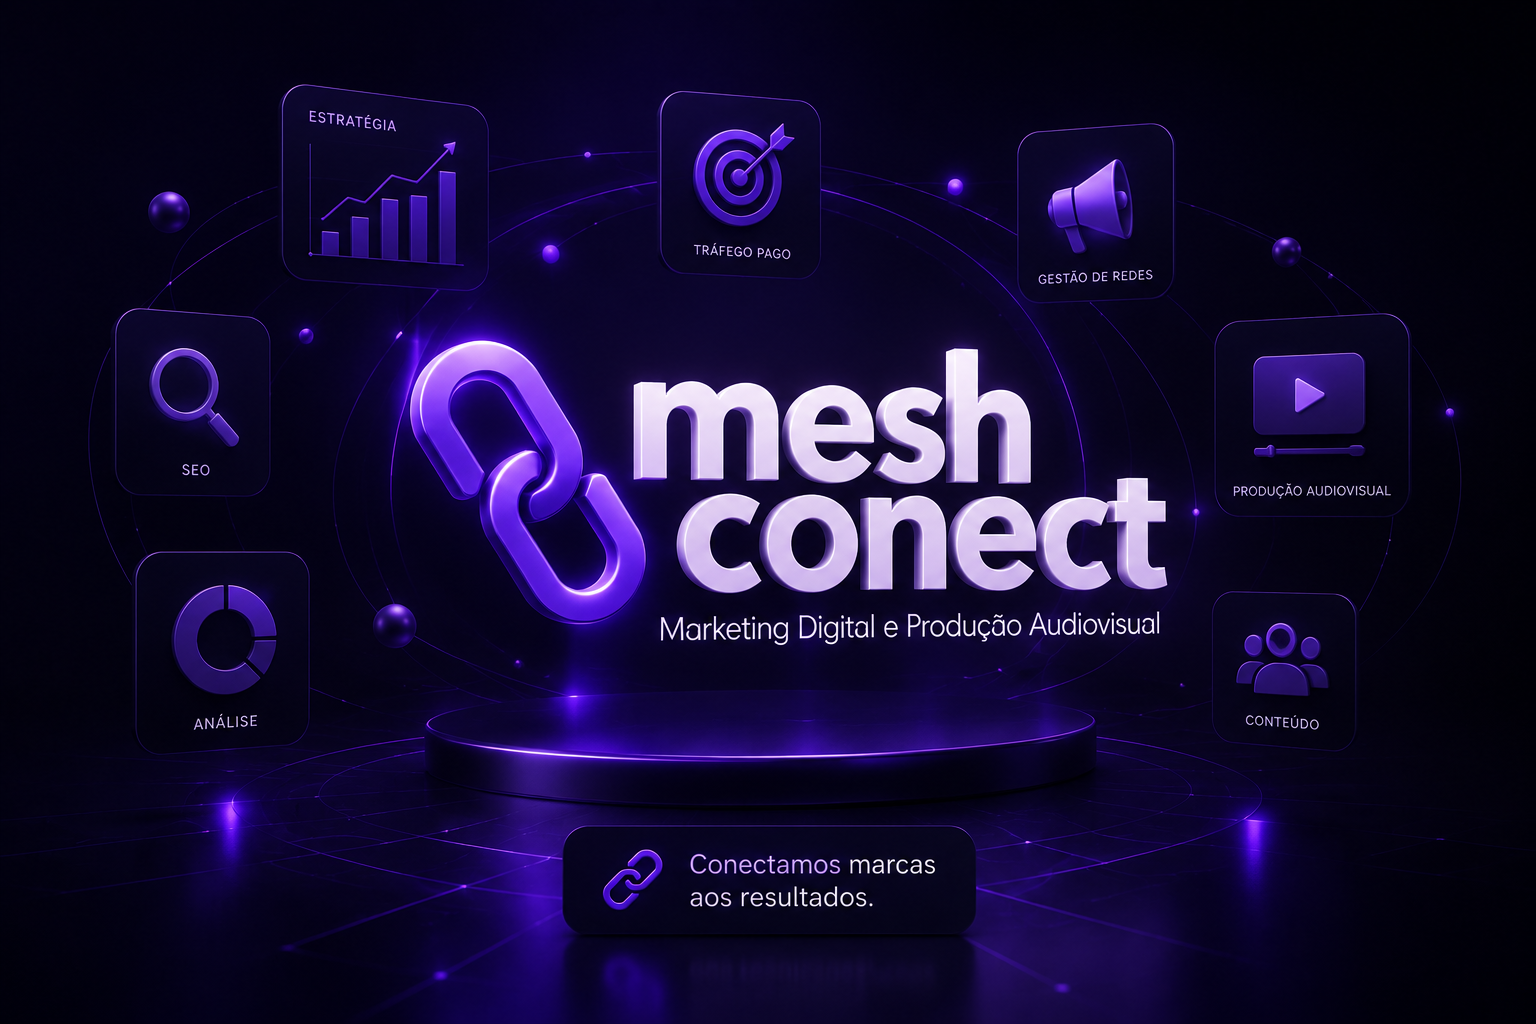
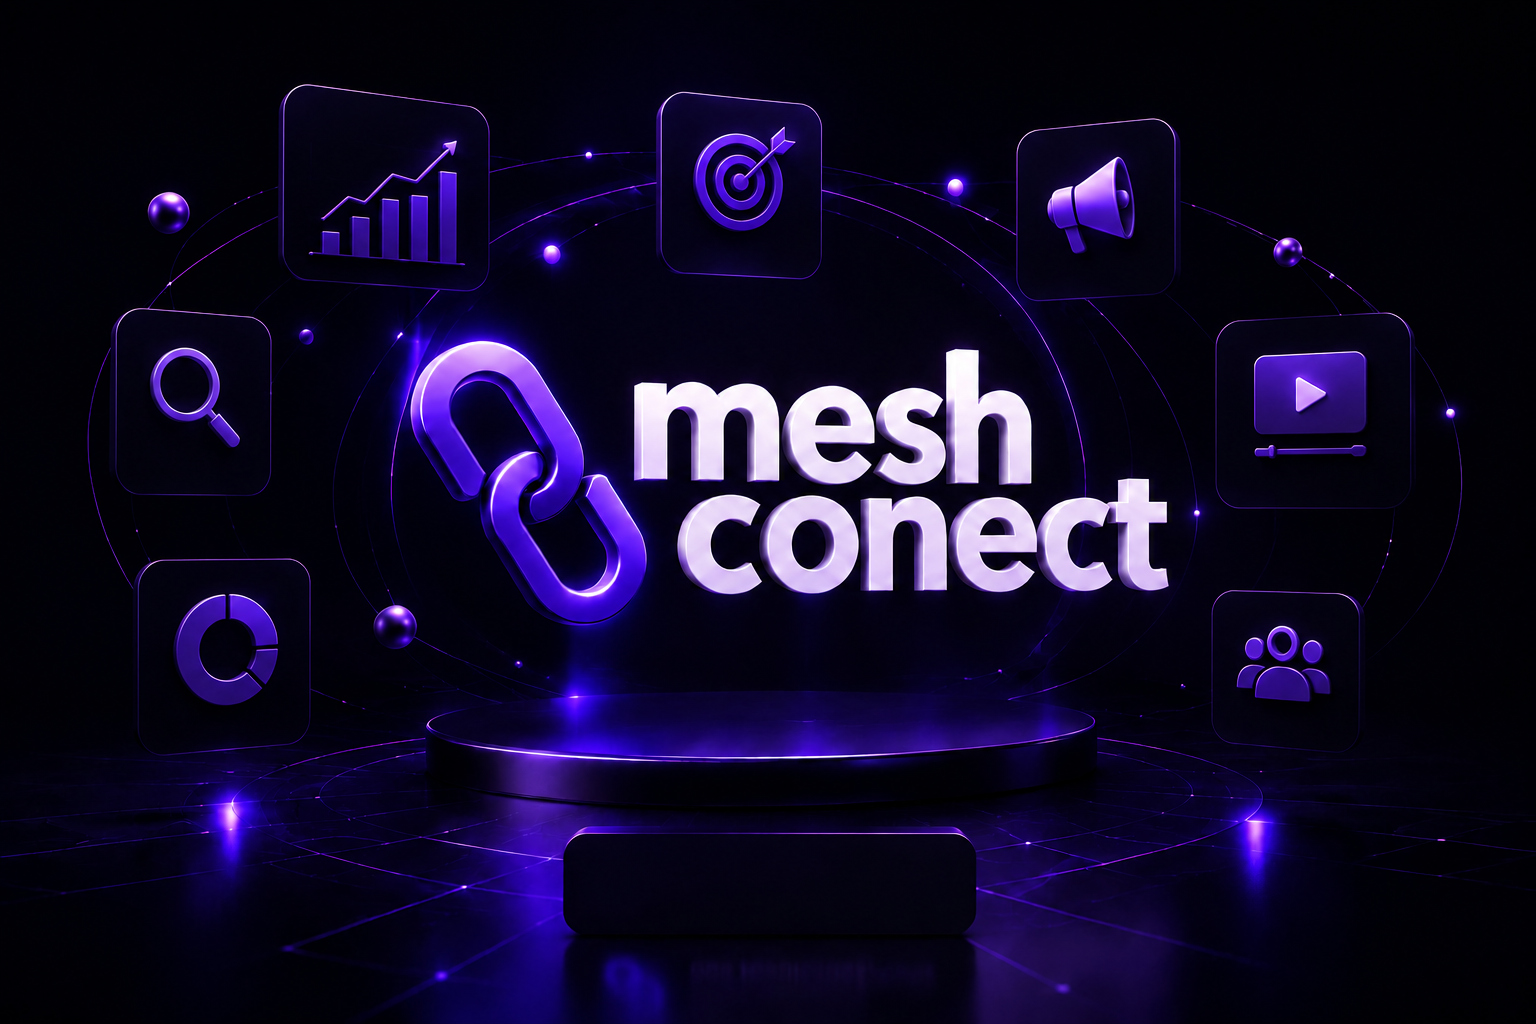
atualizando imagens do card

diff --git a/css/style.css b/css/style.css
@@ -331,24 +331,32 @@ section{
 }
 
 .hero{
-    min-height:820px;
+    min-height:100vh;
     display:flex;
     align-items:center;
     justify-content:center;
     padding:80px 80px 40px;
+    
 }
 
 .hero-content{
     width:100%;
     max-width:1420px;
+
     display:grid;
     grid-template-columns:1fr 1.2fr;
+
+
     align-items:center;
-    gap:54px;
+    gap:64px;
+    
 }
 
 .hero-text{
+    width:100%;
+    max-width:640px;
     animation:fadeLeft 1s ease both;
+    
 }
 
 .eyebrow,
@@ -376,11 +384,18 @@ section{
 }
 
 .hero-text h1{
-    max-width:760px;
+    width:100%;
+    max-width:97%;
+
     margin-bottom:28px;
-    font-size:clamp(44px,6vw,78px);
-    line-height:1.04;
+
+    font-size:clamp(38px,8vw,78px);
+
+    line-height:1.05;
+
     font-weight:800;
+
+    word-break:normal;
 }
 
 .hero-text h1 span{
@@ -411,9 +426,10 @@ section{
 
     position:relative;
 
-    min-height:680px;
+    min-height:auto;
 
     overflow:visible;
+    margin-top:40px;
 
 }
 
@@ -421,10 +437,10 @@ section{
 
     position:relative;
 
-    width:980px;
+    width:min(95vw,980px);
 
-    height:760px;
-    isolation:isolate;
+      aspect-ratio:980/760;
+      transform:translateY(-90px);
 
 }
 .hero-devices::before{
@@ -500,9 +516,9 @@ section{
 
     width:940px;
 
-    top:-16px;
+    top:-2%;
 
-    left:-175px;
+    left:-18%;
 
     z-index:1;
     animation:floatMonitor 8s ease-in-out infinite;
@@ -518,11 +534,11 @@ transform-origin: center center;
 
     position:absolute;
 
-    width:524px;
+    width:54%;
 
-    left:196px;
+    left:20%;
 
-    top:289px;
+    top:38%;
 
     z-index:2;
      animation:floatNotebook 7s ease-in-out infinite;
@@ -539,11 +555,11 @@ transform-origin: center center;
 
     position:absolute;
 
-    width:258px;
+    width:26%;
 
-    left:161px;
+    left:16%;
 
-    top:418px;
+    top:55%;
 
     z-index:3;
     animation:floatPhone 8.5s ease-in-out infinite;
@@ -613,49 +629,7 @@ transform-origin: center center;
     margin-bottom:70px;
 }
 
-/* ===========================
-   TÍTULOS
-=========================== */
 
-/* ===== SOBRE ===== */
-
-#sobre .titulo{
-    max-width:700px;
-}
-
-#sobre .subtitulo{
-    max-width:760px;
-}
-
-/* ===== SERVIÇOS ===== */
-
-#servicos .titulo{
-    max-width:700px;
-}
-
-#servicos .subtitulo{
-    max-width:760px;
-}
-
-/* ===== POR QUE ===== */
-
-#porque .titulo{
-    max-width:650px;
-}
-
-#porque .subtitulo{
-    max-width:700px;
-}
-
-/* ===== PROJETOS ===== */
-
-#projetos .titulo{
-    max-width:700px;
-}
-
-#projetos .subtitulo{
-    max-width:760px;
-}
 
 
 
@@ -1081,7 +1055,7 @@ footer p{
     .header-btn{padding-inline:20px;}
     .hero-content{grid-template-columns:1fr;max-width:920px;text-align:center;}
     .hero-text p,.hero-buttons{margin-left:auto;margin-right:auto;justify-content:center;}
-    .hero-image{order:-1;}
+    .hero-image{order:2;}
    
     .sobre-grid,.cards,.portfolio-grid,.testimonials-grid{grid-template-columns:repeat(2,1fr);}
     .sobre-card.destaque{grid-column:1/-1;min-height:360px;}
@@ -1120,20 +1094,50 @@ footer p{
     .contact-grid,.porque-grid{grid-template-columns:1fr;}
 }
 
-@media(max-width:680px){
-    .logo{width:148px;}
-    .hero-text h1{font-size:42px;}
-    .hero-text p,.subtitulo{font-size:16px;}
-    .hero-buttons{display:grid;grid-template-columns:1fr;width:100%;}
-   
-   
-    .sobre-grid,.cards,.portfolio-grid,.testimonials-grid{grid-template-columns:1fr;}
-    .sobre-card,.card,.porque-item,.testimonial,.contact-form,.contact-info{padding:26px;}
-    .sobre-card.destaque{min-height:300px;}
-    .cta-container{padding:46px 24px;}
-    .projeto img{height:210px;}
-}
+@media (max-width:680px){
 
+    .hero-text{
+        max-width:100%;
+    }
+
+    .hero-text h1{
+        font-size:clamp(34px,11vw,44px);
+        line-height:1.08;
+    }
+
+    .hero{
+        padding-top:160px;
+    }
+
+    .sobre-grid,
+    .cards,
+    .portfolio-grid,
+    .testimonials-grid{
+        grid-template-columns:1fr;
+    }
+
+    .sobre-card,
+    .card,
+    .porque-item,
+    .testimonial,
+    .contact-form,
+    .contact-info{
+        padding:26px;
+    }
+
+    .sobre-card.destaque{
+        min-height:300px;
+    }
+
+    .cta-container{
+        padding:46px 24px;
+    }
+
+    .projeto img{
+        height:210px;
+    }
+
+}
 @media(prefers-reduced-motion:reduce){
     *,*::before,*::after{
         scroll-behavior:auto!important;